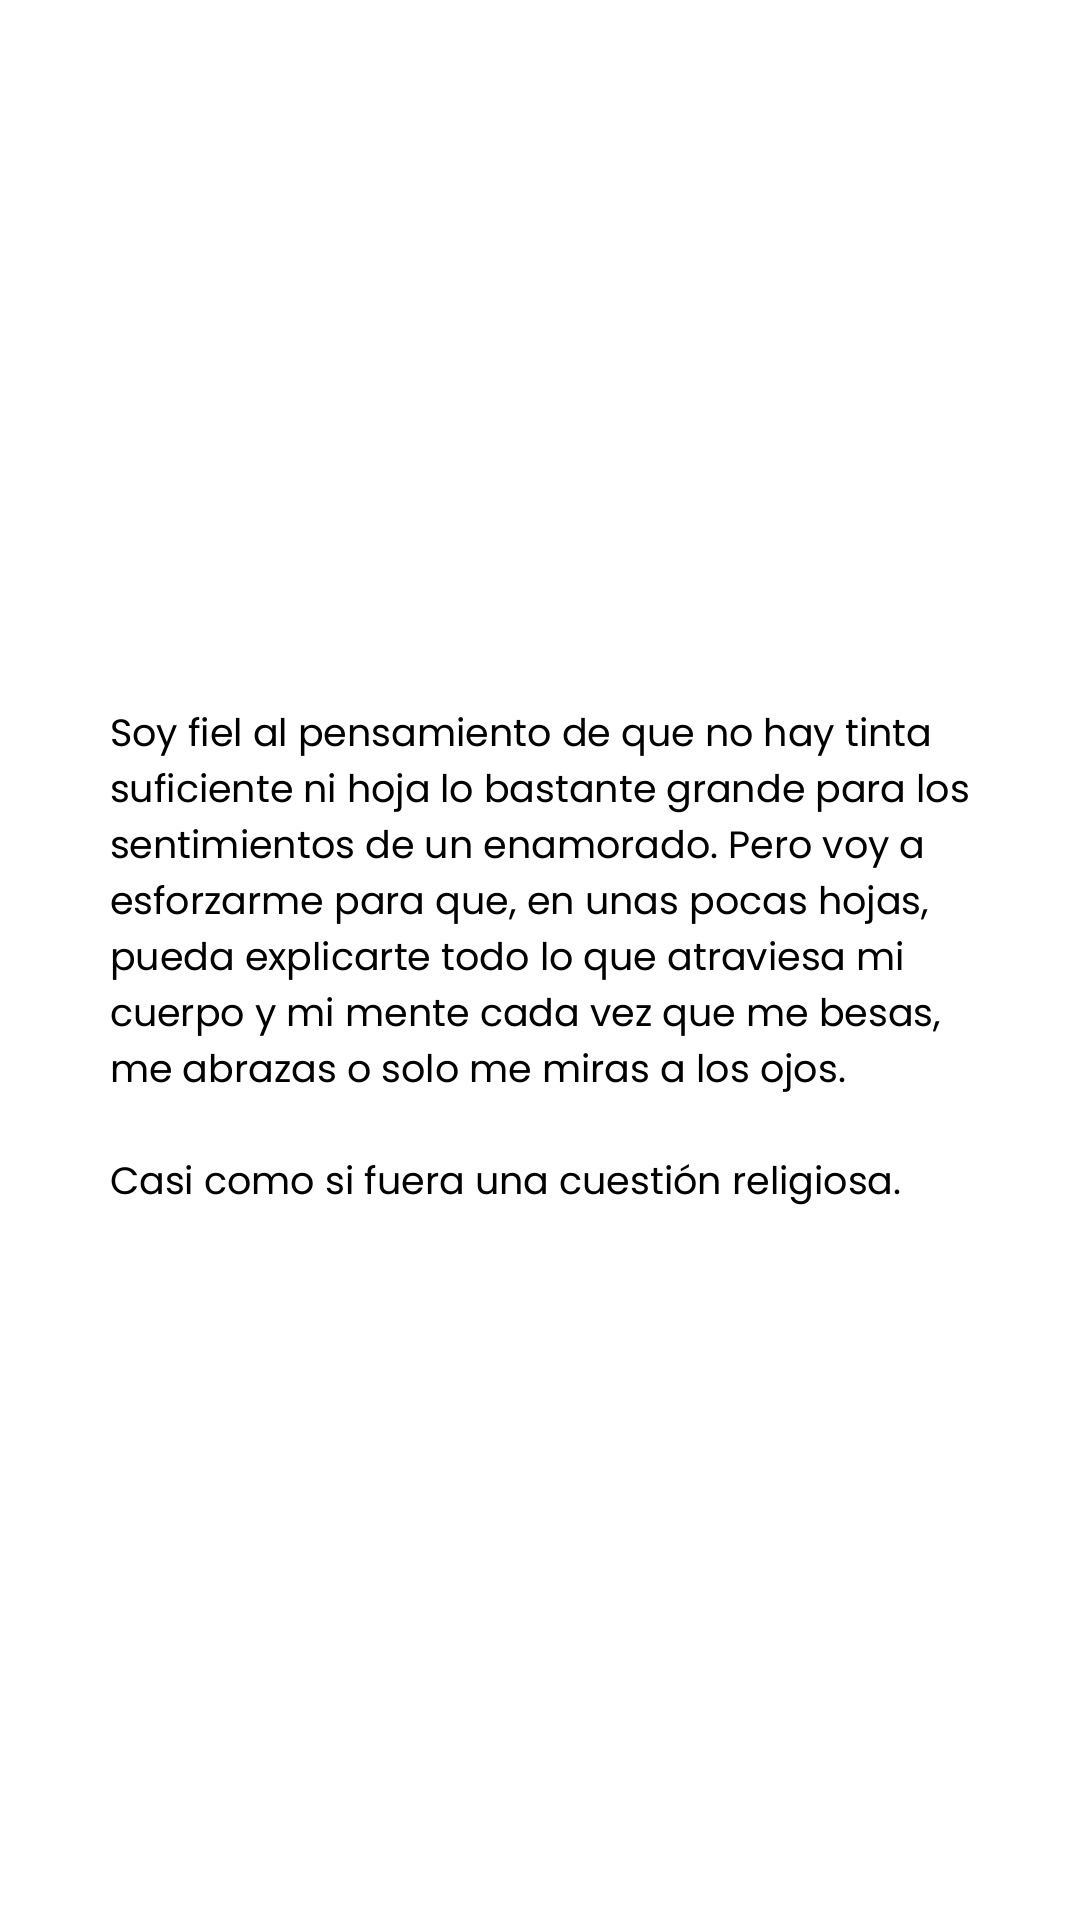
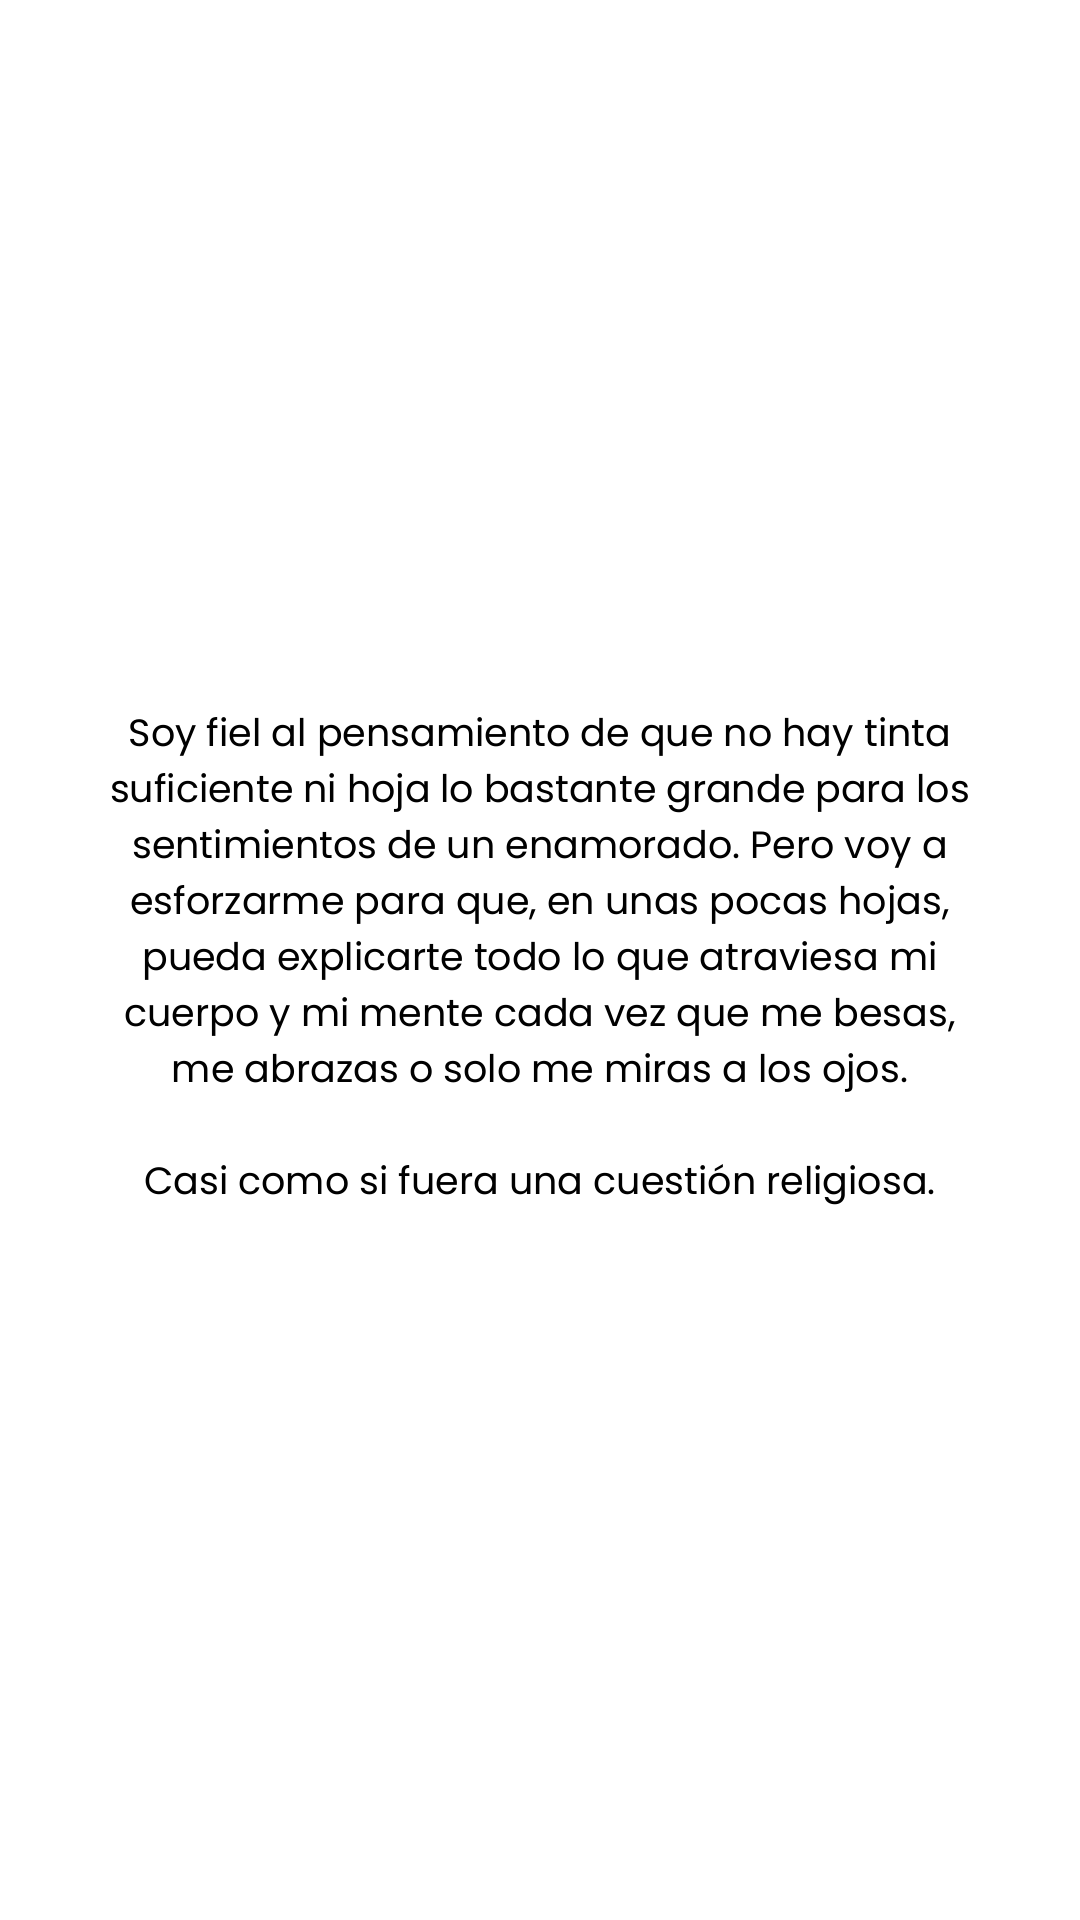
Redes: frase con texto centrado
Claude-Session: https://claude.ai/code/session_01FGxw9aPArw9pn3yxwBbtRR

Changed region(s): [[0.0917, 0.4375, 0.8861, 0.5625], [0.0917, 0.375, 0.8861, 0.4062], [0.0917, 0.5938, 0.8556, 0.625]]

diff --git a/redes/frase_amor.py b/redes/frase_amor.py
@@ -12,7 +12,7 @@ sys.path[:0] = [RAIZ, os.path.join(RAIZ, "citas")]
 
 import portadas_personalizadas  # noqa: E402,F401  (registra Poppins)
 from reportlab.lib.colors import HexColor  # noqa: E402
-from reportlab.lib.enums import TA_LEFT  # noqa: E402
+from reportlab.lib.enums import TA_CENTER  # noqa: E402
 from reportlab.lib.styles import ParagraphStyle  # noqa: E402
 from reportlab.pdfgen import canvas  # noqa: E402
 from reportlab.platypus import Paragraph  # noqa: E402
@@ -33,7 +33,7 @@ def main():
     cv.setFillColor(HexColor("#FFFFFF"))
     cv.rect(0, 0, W, H, stroke=0, fill=1)
     estilo = ParagraphStyle("f", fontName="PopR", fontSize=19, leading=28, textColor=HexColor("#000000"),
-                            alignment=TA_LEFT)
+                            alignment=TA_CENTER)
     p = Paragraph(f"{FRASE}<br/><br/>{CIERRE}", estilo)
     ancho = W - 110
     _, alto = p.wrap(ancho, H)
